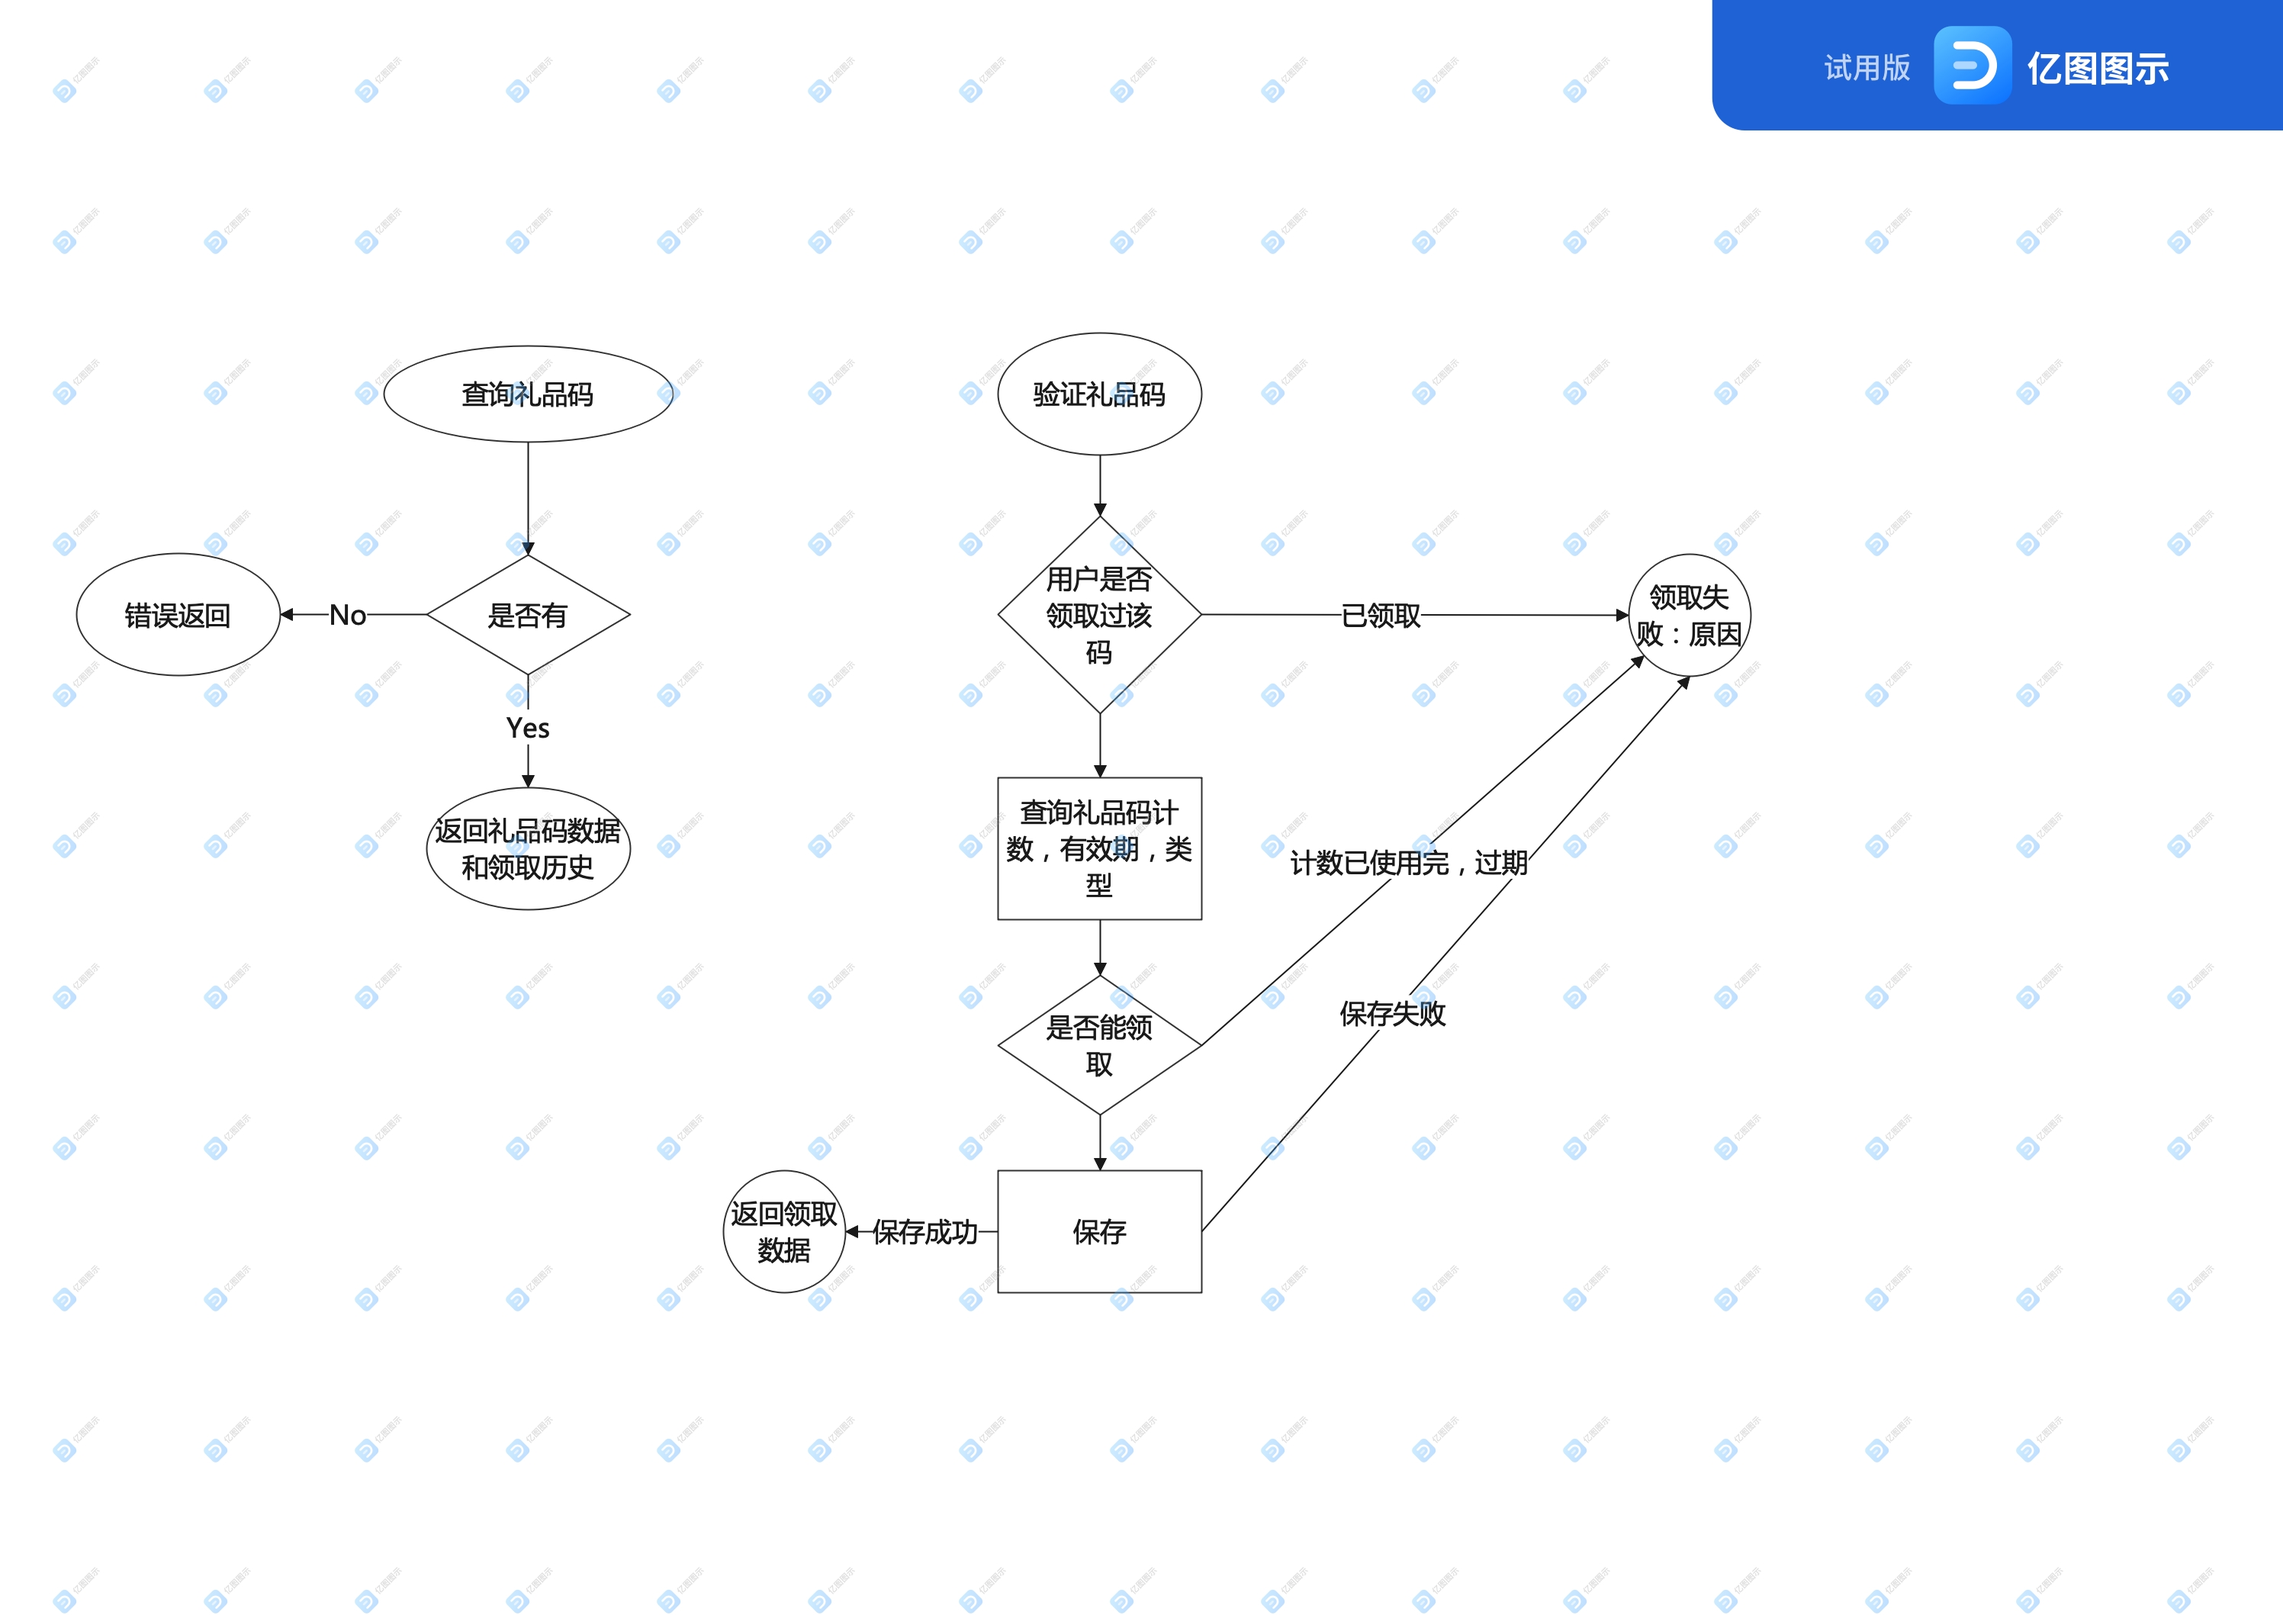
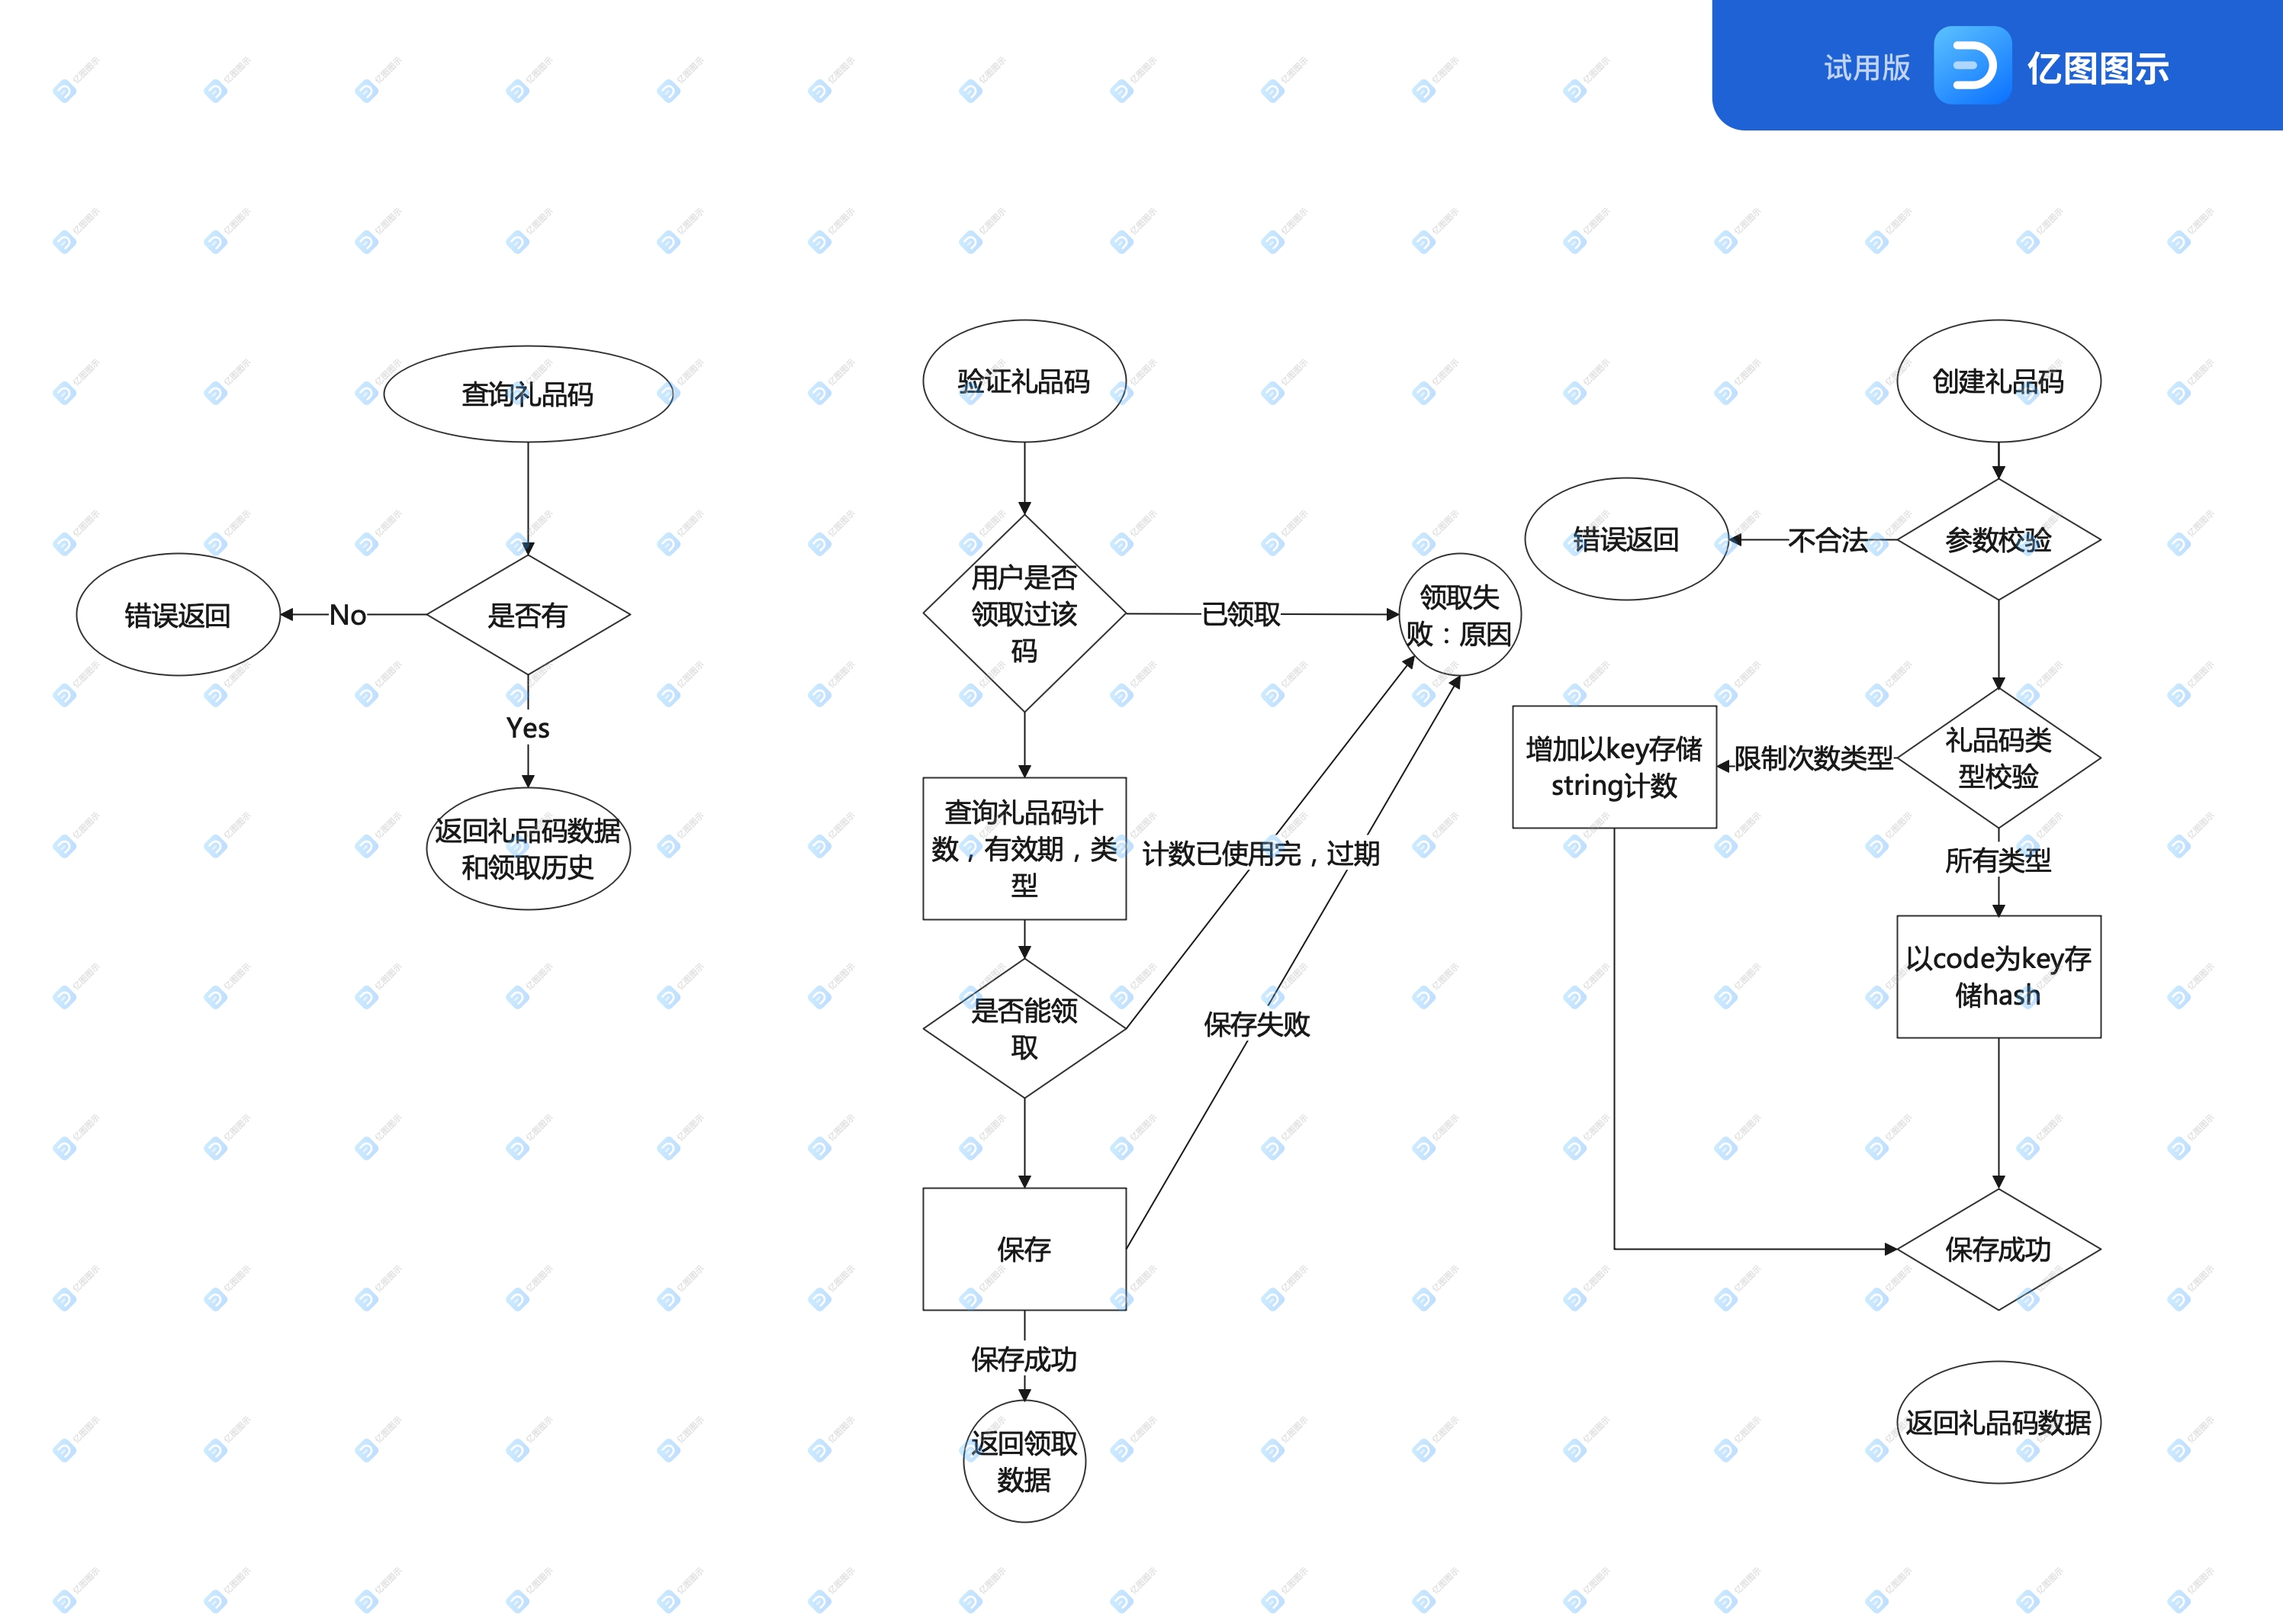
修改错误码定义，增加创建礼品码的流程图

diff --git a/internal/ctrl/giftCtrl.go b/internal/ctrl/giftCtrl.go
@@ -8,6 +8,11 @@ import (
 	"log"
 )
 
+const (
+	CodeSuccessful = 0 // 成功返回
+	CodeErr        = 1
+)
+
 // 测试ping
 func PingFunc(c *gin.Context) {
 	c.JSON(200, gin.H{
@@ -22,26 +27,26 @@ func CreateGift(c *gin.Context) {
 	var formData model.CreateGiftModels
 	if err := c.ShouldBind(&formData); err != nil {
 		log.Println("--CreateGift err", err)
-		msg = "参数错误，管理后台-创建礼品码"
-		myerr.ResponseErr(c, msg)
+		msg = "参数名称错误"
+		myerr.ResponseErr(c, msg, CodeErr)
 		return
 	}
 	// 参数校验
 	if !(formData.CodeType == model.CodeTypeOne || formData.CodeType == model.CodeTypeTwo || formData.CodeType == model.CodeTypeThree) {
-		msg = "参数错误,礼品码类型：1-指定用户一次性消耗，2-不指定用户限制兑换次数，3-不限用户不限次数兑换"
+		msg = "参数类型错误,礼品码类型：1-指定用户一次性消耗，2-不指定用户限制兑换次数，3-不限用户不限次数兑换"
 		log.Println("--CreateGift err", msg)
-		myerr.ResponseErr(c, msg)
+		myerr.ResponseErr(c, msg, CodeErr)
 		return
 	}
 	// 创建礼品码
 	code, err := handler.CreateGiftHandler(formData)
 	if err != nil {
 		msg = "创建礼品码失败，redis失败，请确认"
-		myerr.ResponseErr(c, msg)
+		myerr.ResponseErr(c, msg, CodeErr)
 		return
 	}
 	c.JSON(200, gin.H{
-		"code": 0,
+		"code": CodeSuccessful,
 		"msg":  msg,
 		"data": code,
 	})
@@ -55,23 +60,23 @@ func GetGift(c *gin.Context) {
 	// 校验参数
 	if len(code) != 8 {
 		msg = "err 礼品码是八位字符串"
-		myerr.ResponseErr(c, msg)
+		myerr.ResponseErr(c, msg, CodeErr)
 		return
 	}
 	// 读取数据
 	giftData, err := handler.GetGiftHandler(code)
 	if err != nil {
 		msg = "查询礼品码失败，redis失败，请确认 "
-		myerr.ResponseErr(c, msg)
+		myerr.ResponseErr(c, msg, CodeErr)
 		return
 	}
 	if len(giftData) < 1 {
 		msg = "查询礼品码失败，礼品码不存在，请确认"
-		myerr.ResponseErr(c, msg)
+		myerr.ResponseErr(c, msg, CodeErr)
 		return
 	}
 	c.JSON(200, gin.H{
-		"code": 0,
+		"code": CodeSuccessful,
 		"msg":  msg,
 		"data": giftData,
 	})
@@ -86,22 +91,22 @@ func CheckCode(c *gin.Context) {
 	if code == "" || uid == "" {
 		log.Println("--CheckCode-code", code, uid)
 		msg = "验证礼品码 。参数错误"
-		myerr.ResponseErr(c, msg)
+		myerr.ResponseErr(c, msg, CodeErr)
 		return
 	}
 	// 读取数据
 	content, msg, err := handler.GetGiftRewardHandler(uid, code)
 	if err != nil {
-		myerr.ResponseErr(c, msg)
+		myerr.ResponseErr(c, msg, CodeErr)
 		return
 	}
 	if len(content) < 1 {
 		msg += "获取失败"
-		myerr.ResponseErr(c, msg)
+		myerr.ResponseErr(c, msg, CodeErr)
 		return
 	}
 	c.JSON(200, gin.H{
-		"code": 0,
+		"code": CodeSuccessful,
 		"msg":  msg,
 		"data": content,
 	})

diff --git a/internal/model/requestModel.go b/internal/model/requestModel.go
@@ -21,15 +21,15 @@ const (
 
 // 礼品码数据结构
 type CreateGiftModels struct {
-	Code       string `form:"code" binding:""`
-	CodeType   int    `form:"codeType" binding:"required"`
-	DrawCount  int    `form:"drawCount" binding:"required"`
-	Des        string `form:"des" binding:"required"`
-	ValidTime  int64  `form:"validTime" binding:"required"`
-	Content    string `form:"content" binding:"required"`
-	CreateUser string `form:"createUser" binding:"required"`
-	CostCount  int    `form:"costCount" binding:""`
-	UserId     int    `form:"userId" binding:"required"`
+	Code       string `form:"code" binding:""`               // 礼品码
+	CodeType   int    `form:"codeType" binding:"required"`   //礼品码类型，1-指定用户一次性消耗，2-不指定用户限制兑换次数，3-不限用户不限次数兑换
+	DrawCount  int    `form:"drawCount" binding:"required"`  //可领取次数
+	Des        string `form:"des" binding:"required"`        //描述
+	ValidTime  int64  `form:"validTime" binding:"required"`  //过期时间戳
+	Content    string `form:"content" binding:"required"`    //奖品内容
+	CreateUser string `form:"createUser" binding:"required"` //创建着
+	CostCount  int    `form:"costCount" binding:""`          //已领取次数
+	UserId     int    `form:"userId" binding:""`             //知道用户
 }
 
 // 领取限制次数的礼品码

diff --git a/internal/myerr/err.go b/internal/myerr/err.go
@@ -3,9 +3,9 @@ package myerr
 import "github.com/gin-gonic/gin"
 
 // 错误返回
-func ResponseErr(c *gin.Context, msg string) {
+func ResponseErr(c *gin.Context, msg string, code int) {
 	c.JSON(200, gin.H{
-		"code": 1,
+		"code": code,
 		"msg":  msg,
 		"data": "",
 	})

diff --git a/README.md b/README.md
@@ -63,7 +63,28 @@ liqianqian@liqianqian giftServer % tree
 
 ## 4.存储设计
 
-无
+礼品码信息：
+
+| 内容         | 数据库 | Key        | 类型 | 说明 |
+| ------------ | ------ | ---------- | ---- | ---- |
+| 礼品码       | redis  | Code       | Hash |      |
+| 礼品码类型   | redis  | CodeType   | Hash |      |
+| 可领取次数   | redis  | DrawCount  | Hash |      |
+| 有效期时间戳 | redis  | ValidTime  | Hash |      |
+| 奖品内容     | redis  | Content    | Hash |      |
+| 管理员       | redis  | CreateUser | Hash |      |
+| 已领取次数   | redis  | CostCount  | Hash |      |
+| 指定玩家     | redis  | UserId     | Hash |      |
+|              |        |            |      |      |
+
+礼品码：限制次数类型的存储
+
+| 内容   | 数据库 | Key       | 类型   | 说明 |      |
+| ------ | ------ | --------- | ------ | ---- | ---- |
+| 礼品码 | redis  | Code+type | String |      |      |
+|        |        |           |        |      |      |
+
+
 
 ## 5.接口设计供客户端调用的接口
 
@@ -87,7 +108,7 @@ http post
 		"validTime":16345634354545,//有效期，时间戳
 		"content":"{"1":1000,"2":10000}",	// 内容，json字符串，{id:count}。示例 - 金币goldId 1:数量1
 		"createUser":"qq",	// 创建者
-		"UserId":"123456",	// 礼品码类型，1-指定用户一次性消耗的用户
+		"userId":"123456",	// 礼品码类型，1-指定用户一次性消耗的用户
 }
 ```
 
@@ -118,7 +139,7 @@ http post
 
 接口地址：
 
-127.0.0.1:8000/createGift
+127.0.0.1:8000/getGift
 
 请求参数：
 
